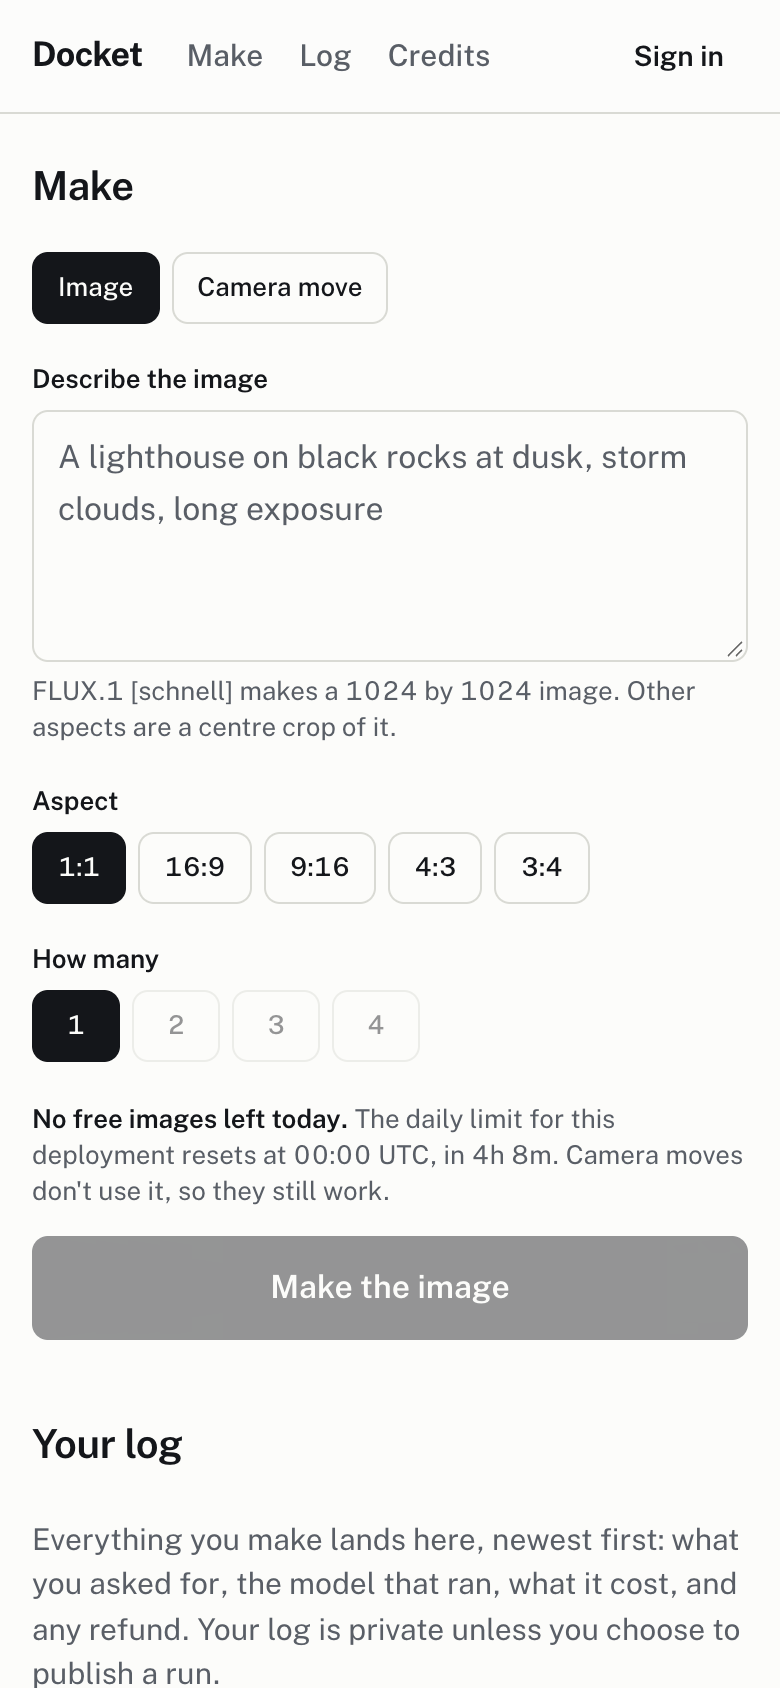
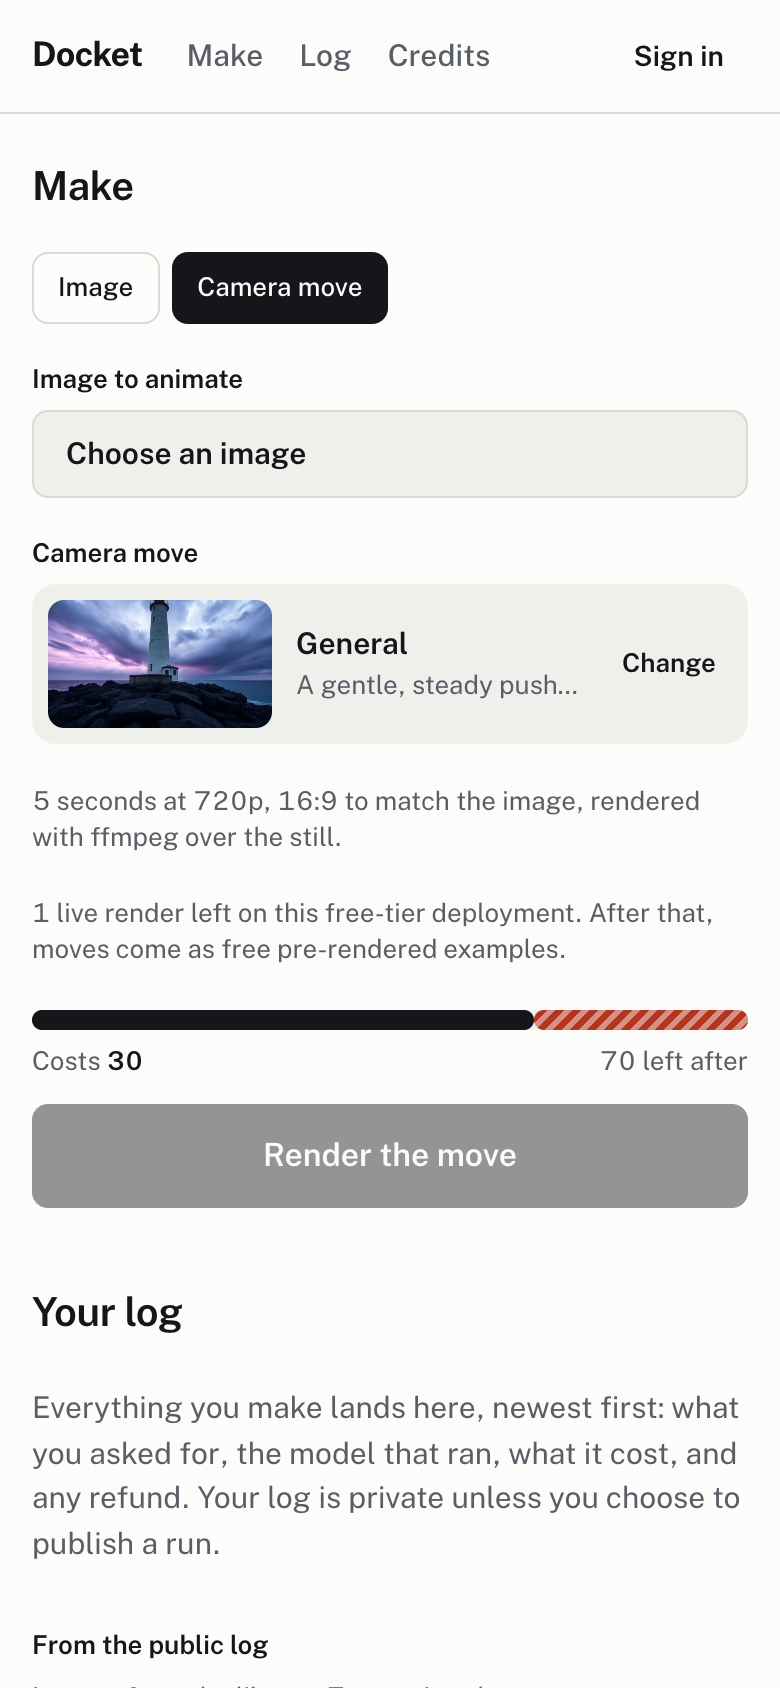
Re-freeze: readiness 78/78 on production after the second reviewer pass
Readiness reads enough of the public log to reach the library now that seven runs are
published, and checks that /make opens on camera moves when the day's images are gone (then
that the image form still states the real count). STATUS: frozen again; #40 and #44 wait on
the owner's edit.

diff --git a/.agent-logs/2026-09-14_15-07-50_48cab46d-fe12-42e7-9fd5-2735b79789c6.md b/.agent-logs/2026-09-14_15-07-50_48cab46d-fe12-42e7-9fd5-2735b79789c6.md
@@ -5,9 +5,9 @@ author: mnahsanofficial
 model: claude-opus-5-5
 tool: claude-code
 project: higgsfieldai-clone
-total_exchanges: 49
+total_exchanges: 50
 first_prompt_time: 2026-09-14T15:07:50.679Z
-last_prompt_time: 2026-09-25T23:19:13.510Z
+last_prompt_time: 2026-09-25T23:22:44.696Z
 ---
 
 # Session Log - 2026-09-14
@@ -4323,4 +4323,108 @@ timestamp: 2026-09-25T23:19:13.510Z
 model: claude-opus-5-5
 
 Try again
+
+[LOG_ENTRY type=RESPONSE num=49 session=48cab46d]
+timestamp: 2026-09-25T23:21:50.492Z
+model: claude-opus-5-5
+
+TURN ENDED WITHOUT A RESPONSE - cause not recorded.
+
+No Stop or StopFailure event was captured for this turn and the transcript holds no interrupt marker. Claude Code fires no hook when a turn ends this way, so this entry was written afterwards, at 2026-09-25T23:22:44.697Z, when the next hook event (UserPromptSubmit) ran. Possible causes: the app was closed or the session switched mid-turn, or the capture hook failed (see .agent-logs/_capture-errors.log).
+
+Partial assistant text produced before the turn ended:
+
+I'll work in the order you gave, one PR per item. Two things up front:
+- **The README section (item 1)** will stay open and unmerged, since its "why" column has to be your reasons.
+- **The walkthrough segment (item 5)** speaks those same reasons as yours, so I'll mark it as a draft and leave that PR open too.
+
+Starting with the recon evidence:
+
+Soul ID and AI video already have written reasons under "Not in Docket". Studios don't, so I'll look for one recorded in the agent logs:
+
+Docket shows no struck-through "original" price anywhere, which is itself a change from Higgsfield, so it goes in the pricing row. Writing the section:
+
+It still lists the agent log. I'll check why:
+
+Now PR #40 touches only the README. Next, item 2: publishing genuine live renders. First, how the existing seed script submits runs and how a live render actually gets processed:
+
+Before running it, whether `submitVideoJob` kicks off anything outside a request (for example, the render itself) that would break in a script:
+
+Nothing runs outside the request, and `verify-video` uses the same pattern. Running it on a new branch, rendering on this machine:
+
+Now the ordering: live runs first in both public-log queries.
+
+Next, home's data: the example must be a live, charged run with a push, pull, pan or tilt. The strip becomes the other live runs, then library images, and no pre-rendered clips.
+
+Step 2 now uses the looping video:
+
+The strip's meta line needs to say "Rendered live" for live runs:
+
+"Rendered live with camera motion" reads oddly. "Rendered live with ffmpeg" is true and plainer:
+
+`verify-log` passes 21/21. Rebuilding and running the home e2e at both widths:
+
+Next, home: move the actions under the subline and cap the comparison's height.
+
+Now the e2e: desktop height set to 789, plus checks that the primary action sits above the fold and that the hint shows until the handle moves.
+
+33/33 at both widths, with "Start making" ending at y=319 of 789 on desktop and 325 of 844 on mobile. For the PR I'll take first-screen screenshots at exactly those viewports:
+
+Both first screens work: the action sits under the subline, and the hint is by the handle. Committing:
+
+Merged as [PR #42](https://github.com/mnahsanofficial/docket-nahsan/pull/42). Now item 4, the polish, starting with the dates. Every place that formats one:
+
+One formatter, and no other date formatting in `src`. Next, `/make` when images are out: it should open in Camera move mode, and any disabled "How many" option should say why. The composer:
+
+Next, plan honesty. The Max card promises 900 images, but 20 a day for 30 days is 600. Here's how the card copy is built:
+
+The cards compute "Enough for N images" from credits alone and ignore the daily cap. Here are the plan numbers and what `verify-limits` asserts about the cards:
+
+A cast there would hide type mistakes. Typing the literal directly is cleaner:
+
+With the return type declared, the `as const` isn't needed either:
+
+Now the drift test: every card's image count must be reachable within both its credits and its daily cap.
+
+16/16, and Max now reads 600, limited by the daily cap. The credits e2e still looks for the live-move sentence on every card, so it now checks the one shared line above the cards instead:
+
+Next, camera-move rows. They're titled by the bare preset name ("General"); they should say what happened, with the still's prompt beneath. Every place that titles a move by preset name:
+
+A small shared helper keeps the four places consistent: "Camera move: Slow push-in", plus the still's prompt.
+
+The `video` variables may now be unused; lint's quiet mode hides warnings, so I'll check those files without it:
+
+Clean. Next, the footer, which belongs in the root layout:
+
+The mode control uses real radio inputs, so the check works. A footer check goes in the home e2e, then a full rebuild and the make, credits, home and log e2e at both widths:
+
+While those run, the README. Two of these fixes are corrections to things I shipped: Max overpromising, and two date formats in one log. The README has a section for those:
+
+Two more README fixes: the Limits section still says every card repeats the live-move cap, and the database check count rises from 128 to 132 (3 new in `verify-limits`, 1 in `verify-log`).
+
+Make now passes 28/28 twice in a row at 390px and 28/28 at 1440px, so the race is gone. Before committing I'm checking the credits page screenshot:
+
+Everything there is intended. The four suites left about 40 screenshots, so I'll keep only the ones that show this PR's changes:
+
+The log list view shows the new titles, still prompts and dates together, so it's the most useful check:
+
+One date format with the zone stated, and the quiet footer. Committing and merging:
+
+500 spoken words in all (about 3:20), with 105 in the new segment (about 42 seconds). I'll correct the header, then open this PR and leave it unmerged:
+
+PR #44 is open and unmerged. (The "changed on disk" note is just switching back to main.) Next I'm waiting for 311605f on production, then the readiness check:
+
+While that runs, the STATUS update: frozen again, with the two PRs that wait on you.
+
+[LOG_ENTRY type=PROMPT num=50 session=48cab46d]
+timestamp: 2026-09-25T23:22:44.696Z
+model: claude-opus-5-5
+
+<task-notification>
+<task-id>bh3yrsn19</task-id>
+<tool-use-id>toolu_01UJz7BeUY75WxwvBT5mrvTX</tool-use-id>
+<output-file>/private/tmp/claude-501/-Users-nazmulahsan-HiggsfieldAI-clone/48cab46d-fe12-42e7-9fd5-2735b79789c6/tasks/bh3yrsn19.output</output-file>
+<status>completed</status>
+<summary>Background command "Run readiness, home and menu e2e on production" completed (exit code 0)</summary>
+</task-notification>
 

diff --git a/STATUS.md b/STATUS.md
@@ -1,6 +1,24 @@
 # Status
 
-**Features are frozen as of 2026-09-26.** From here on, only fixes for what's broken, copy corrections, and the submission itself. Anything new goes to the owner as a proposal first.
+**Features are frozen again as of 2026-09-26, after the reviewer-pass items below.** From here on, only fixes for what's broken, copy corrections, and the submission itself. Anything new goes to the owner as a proposal first.
+
+**Waiting on the owner, not merged:**
+- **#40:** README, "What I changed from Higgsfield, and why". Every "why" is a draft for the owner to rewrite in their own words. It touches only README.md.
+- **#44:** `docs/walkthrough.md`, the 45-second "What I changed from Higgsfield" segment. Its lines paraphrase #40's drafts; merge it after #40.
+
+**The second reviewer pass (owner, 2026-09-26), items 1–5:**
+1. The reference-to-decision story: #40, open for the owner's edit.
+2. The showcase is live, not pre-rendered (#41). `scripts/seed-live-moves.ts` published 3 live renders (Slow push-in, Pan right, Crash zoom), charged 30 each and rendered locally. Live runs lead the public log, How it works uses a live charged run, step 2 autoplays (with a play button under reduced motion), and the strip shows live runs and library images.
+3. The hero (#42): Start making sits under the subline, above the fold at 1440×789 and 390×844. The pair is capped at 58svh, with a "Drag to compare" hint until the handle moves.
+4. Polish (#43):
+   - one UTC date format (`lib/time.ts`), with no hydration mismatch
+   - out of images, `/make` opens in camera-move mode; disabled batch sizes say why
+   - plan outcomes reachable within their caps (Max 600, not 900), tested
+   - one live-move line above the cards
+   - "Camera move: <preset>" titles with the still's prompt
+   - a footer
+   - the fixture latency is 3 s
+5. The walkthrough segment: #44, open for the owner's edit.
 
 **Production:** https://higgsfield-ai-clone.vercel.app. It serves Docket at `/` from `main` (commit `0984d09` or later), and `/api/health` reports the deployed commit. Hobby plan: production deploys work; preview builds fail and don't matter.
 **Kill switch (no deploy):** `npx tsx --conditions react-server scripts/ops/render-mode.ts prerendered` (or `live`). Takes effect within ~10 s. It's `live` as of 2026-09-26.
@@ -12,7 +30,7 @@
 - **`/credits`** shows plans that state their limits beside their credits, and the labelled demo checkout (`AHSAN345` takes 100% off).
 - **The account menu**, top right: who you are, balance, your log, sign out. A guest's sign-out warns first.
 
-**Last verification (2026-09-26, production at `0984d09`, 390px and 1440px):** readiness **76/76**; `ui-home-e2e` **23/23** at each width (read-only; the live allowance was 0 of 57, so the out-of-images layout was checked); `ui-menu-e2e` **20/20** at each width (the guest part, including the sign-out warning). Locally, on a fixture server: make 24, log 12, home 24, credits 20 and menu 22, all passing at both widths; database checks 128.
+**Last verification (2026-09-26, production at `311605f`, 390px and 1440px):** readiness **78/78** (fresh browser, signed out; it now also checks that `/make` opens on camera moves when the day's images are gone); `ui-home-e2e` **33/33** at each width (read-only against the live allowance, 0 of 57 left); `ui-menu-e2e` **20/20** at each width (the guest part, including the sign-out warning). Locally, on a fixture server: make 28, credits 22, home 34, log 12 and menu 22, all passing at both widths; `verify-limits` 16, `verify-log` 21.
 
 **Owner to-dos, not blocking:**
 - The Vercel project and domain (`higgsfield-ai-clone.vercel.app`) still carry the old name; the GitHub repo is now `docket-nahsan`. The README's **Live:** link is the only domain serving Docket. If you submit a different domain, change that line.

diff --git a/README.md b/README.md
@@ -392,7 +392,7 @@ These run against the real database and storage, clean up after themselves, and 
 - **Readiness:** `node scripts/dev/readiness.mjs <baseUrl> [dir]` arrives cold, like a reviewer: a fresh browser, no cookies, signed out, at 390px and 1440px.
   - It checks every page, a real 404, every old URL's redirect, no trace of the old identity, tap targets and 16px controls, the real allowance, and that browsing creates no session.
   - It checks the share previews of home, a published move and the longest-prompt library image (og:title, og:description, a 1200×630 og:image that loads, twitter:card), and that a long title is cut at a word.
-  - It makes nothing, so it's safe to point at production. The last run against production (2026-09-26, at the feature freeze) passed 76/76, alongside the home e2e (read-only, 23/23 at each width) and the menu e2e's guest part (20/20 at each width).
+  - It makes nothing, so it's safe to point at production. The last run against production (2026-09-26, after the second reviewer pass) passed 78/78, alongside the home e2e (read-only, 33/33 at each width) and the menu e2e's guest part (20/20 at each width).
 
 ## How it was built
 
